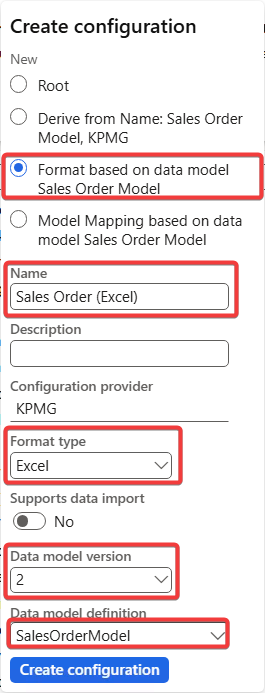
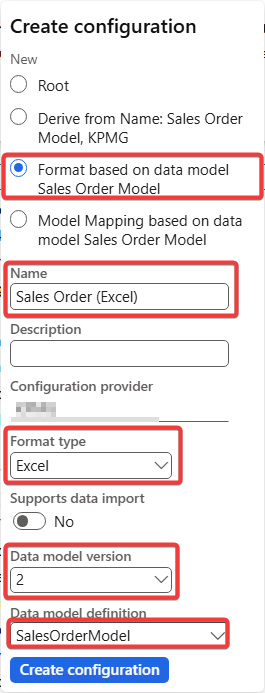
Post ER part 3

Changed region(s): [[0.0604, 0.5758, 0.6038, 0.6061]]

diff --git a/content/posts/ER/electronic-reporting-part3.fr.md b/content/posts/ER/electronic-reporting-part3.fr.md
@@ -1,7 +1,7 @@
 ---
 title: "Electronic Reporting dans D365 F&O - Partie 3 : Concepteur de format et génération du rapport"
-date: 2026-08-28
-draft: true
+date: 2026-08-23
+draft: false
 categories: ["Configuration fonctionnelle"]
 tags: ["Electronic Reporting", "ER", "Configuration"]
 summary: "Le modèle et la correspondance sont prêts - il est maintenant temps de produire réellement un fichier. Voici comment concevoir un format Excel pour le modèle de commande client, le lier au modèle et générer un export réel."

diff --git a/content/posts/ER/electronic-reporting-part3.en.md b/content/posts/ER/electronic-reporting-part3.en.md
@@ -1,7 +1,7 @@
 ---
 title: "Electronic Reporting in D365 F&O - Part 3: Format designer and generating the output"
-date: 2026-08-28
-draft: true
+date: 2026-08-23
+draft: false
 categories: ["Functional configuration"]
 tags: ["Electronic Reporting", "ER", "Configuration"]
 summary: "The model and the mapping are ready - now it's time to actually produce a file. Here's how to design an Excel format for Sales Order Model, bind it to the model, and generate a real export."
